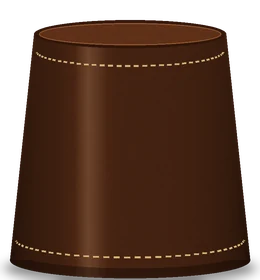
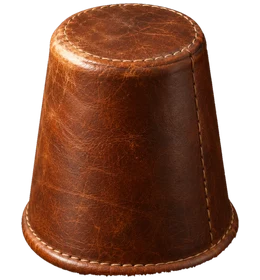
land: GPT photoreal dice faces and leather dice cup

diff --git a/land/app.js b/land/app.js
@@ -155,8 +155,8 @@ function reelStrip(symbol,i,spin){const cell=s=>'<span class="reel-cell"><img sr
   return '<span class="reel-strip" style="--cells:'+n+';--from:'+(n-2)+'">'+cells.map(cell).join('')+'</span>';}
 function reelBox(cls,symbol,i,spin,label=''){return '<span class="'+cls+(spin?' rolling':'')+'" style="--reel:'+i+(spin?';--spin:'+reelStopMs(i)+'ms':'')+'"'+(label?' role="img" aria-label="'+h(label)+'"':'')+'>'+reelStrip(symbol,i,spin)+'</span>';}
 // 주사위: 두 알을 가죽 통에 담아 흔든 뒤 엎었다가 들어 올려 결과를 보인다. 흔들기 전 주사위(pre)는 아무 눈이나, 결과는 통 아래에서 나온다.
-function diceScene(dice){const show=dice||[3,5],die=(n,i,cls)=>'<img class="'+cls+'" style="--i:'+i+'" src="'+art('die-'+n+'.png')+'" alt="">';
-  return '<div class="dice-scene" role="img" aria-label="'+(dice?'주사위 '+dice.join('과 ')+' · 합계 '+(dice[0]+dice[1]):'가죽 통과 주사위 두 개')+'"><span class="dice-felt"></span>'+(dice?[1+Math.random()*6|0,1+Math.random()*6|0].map((n,i)=>die(n,i,'die die-pre')).join(''):'')+show.map((n,i)=>die(n,i,'die die-roll')).join('')+'<img class="dice-cup" src="'+art('arcade-dice-cup-down.png')+'" alt=""></div>';}
+function diceScene(dice){const show=dice||[3,5],die=(n,i,cls)=>'<img class="'+cls+'" style="--i:'+i+'" src="'+art('die-'+n+'.png')+'?v=2" alt="">';
+  return '<div class="dice-scene" role="img" aria-label="'+(dice?'주사위 '+dice.join('과 ')+' · 합계 '+(dice[0]+dice[1]):'가죽 통과 주사위 두 개')+'"><span class="dice-felt"></span>'+(dice?[1+Math.random()*6|0,1+Math.random()*6|0].map((n,i)=>die(n,i,'die die-pre')).join(''):'')+show.map((n,i)=>die(n,i,'die die-roll')).join('')+'<img class="dice-cup" src="'+art('arcade-dice-cup-down.png')+'?v=2" alt=""></div>';}
 // 가위바위보: 두 주먹이 마주 보고 "가위·바위·보!" 박자에 맞춰 위아래로 흔들다 '보!'에서 앞으로 내밀며 모양을 바꾼다.
 const RPS_CHANT=['가위','바위','보!'];
 function rpsScene(r){const o=r?classifyOutcome(r,'rps'):'idle',fate=me=>o==='draw'||o==='idle'?'':(o==='win')===me?' won':' lost';

diff --git a/land/index.html b/land/index.html
@@ -27,6 +27,6 @@
 <dialog id="venueDialog" class="dialog venue-dialog"><div class="dialog-heading"><div><span class="eyebrow" id="venueEyebrow">WELCOME</span><h2 id="venueTitle"></h2></div><button class="close" data-close aria-label="광장으로 돌아가기">×</button></div><div id="venueContent"></div></dialog>
 <dialog id="guideDialog" class="dialog"><div class="dialog-heading"><h2>마을에서 놀기</h2><button class="close" data-close aria-label="닫기">×</button></div><div class="guide-list"><p><kbd>WASD</kbd> 또는 <kbd>↑↓←→</kbd>로 걷기. 대각선도 같은 속도예요.</p><p>건물 입구 가까이에서 <kbd>E</kbd> 또는 입장 버튼을 눌러요. 점프는 없어요.</p><p><kbd>Enter</kbd>로 채팅, <kbd>Esc</kbd>로 이동에 돌아와요. 채팅을 쓰는 동안은 걷지 않아요.</p><p>모바일에서는 화면의 방향키를 길게 눌러 걸어요.</p><p>로그인하면 주민 저장·게임·공동 광장·채팅을 이용할 수 있어요. 기존 검 계정으로 들어오면 진행을 이어해요.</p><p>공개 광장과 Discord 모임은 다른 대화 공간이에요. 프로필에서 Discord를 연결하고, 접근 가능한 음성방을 선택해주세요.</p><p>공개 광장 채팅은 최근 200개까지 보관해요. 민감한 개인정보는 올리지 마세요.</p></div></dialog>
 <div id="toast" class="toast" role="status" hidden></div>
-<script type="module" src="app.js?v=17"></script>
+<script type="module" src="app.js?v=18"></script>
 <svg width="0" height="0" style="position:absolute" aria-hidden="true" focusable="false"><filter id="reel-blur" x="0" y="-15%" width="100%" height="130%"><feGaussianBlur stdDeviation="0 6"/></filter></svg>
 </body></html>
